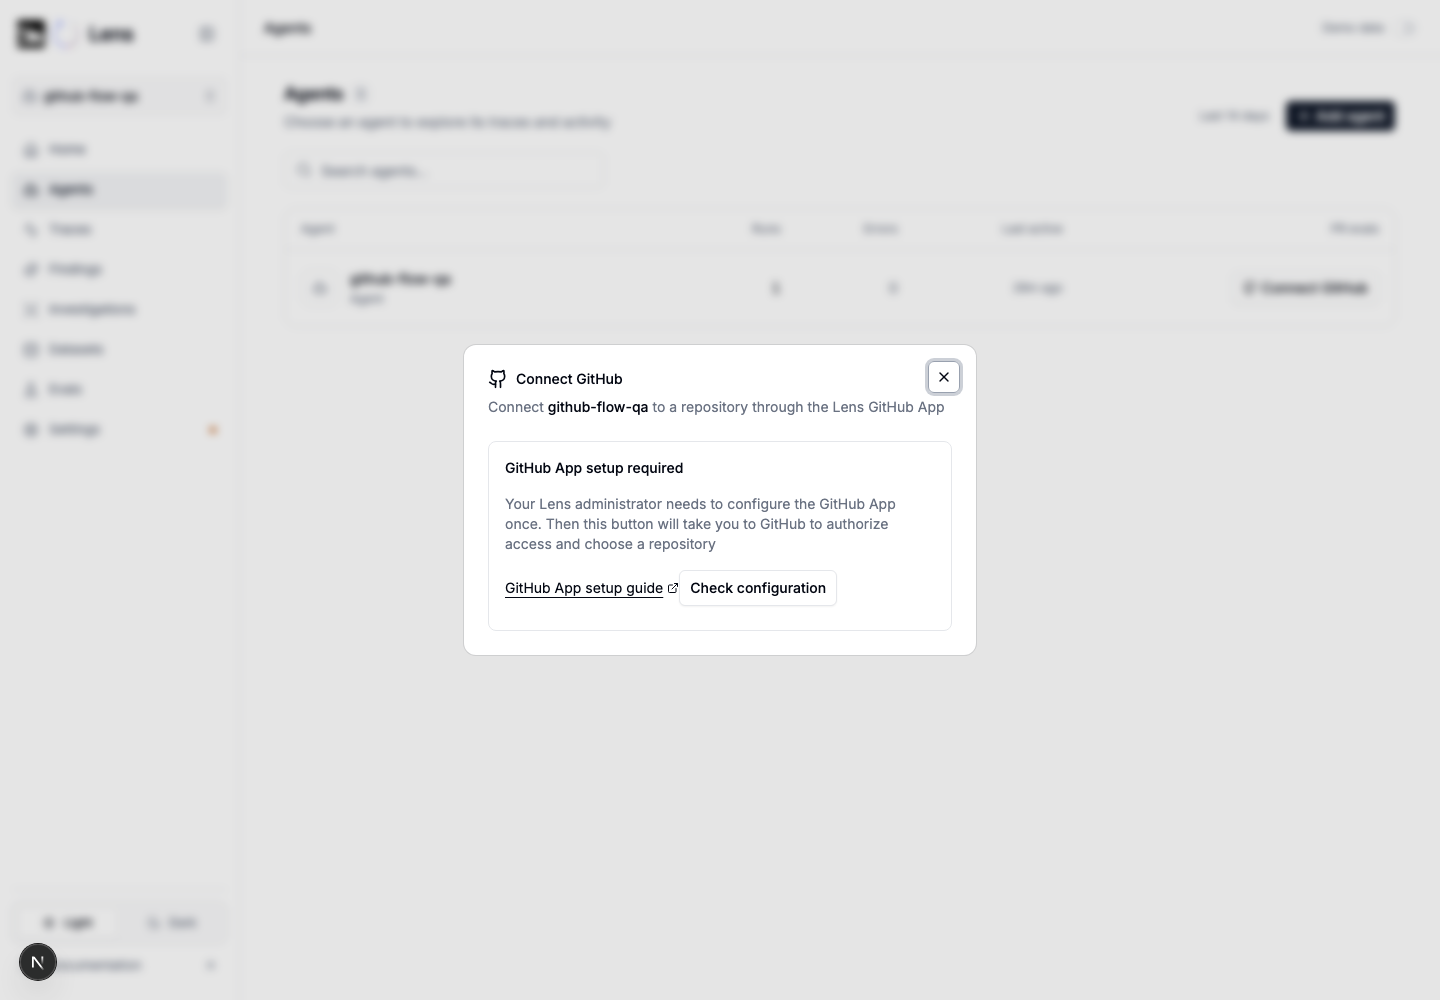
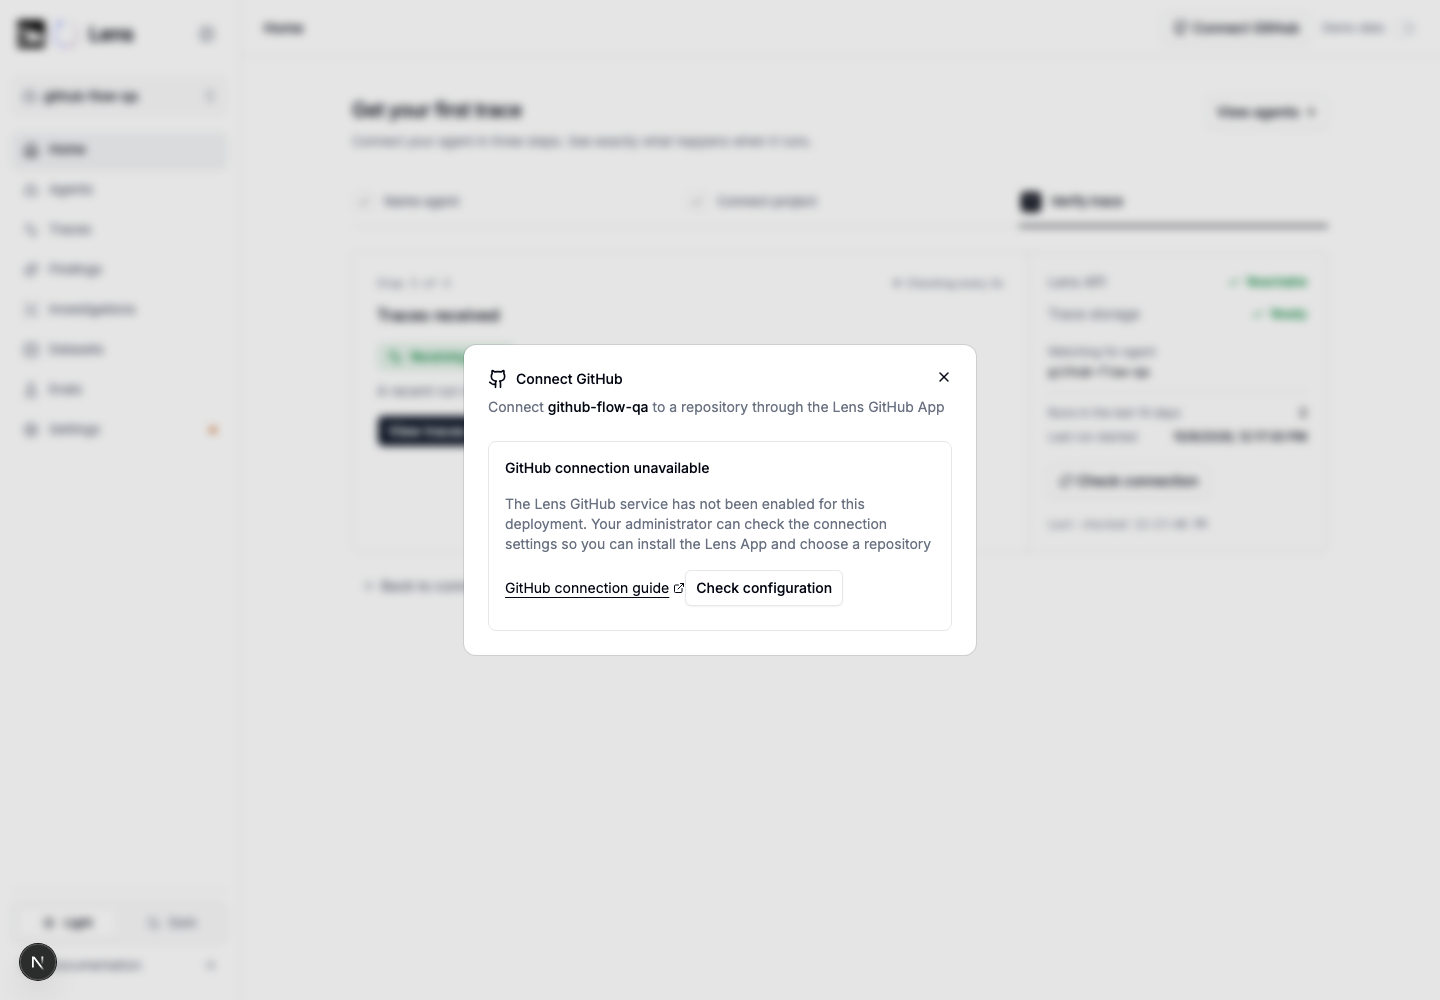
docs: show official GitHub App connection flow

diff --git a/assets/screenshots/github-evals/README.md b/assets/screenshots/github-evals/README.md
@@ -2,9 +2,13 @@
 
 Captured from the Lens UI on October 9, 2026 at a 1440 × 1000 desktop viewport and a 390 × 844 mobile viewport
 
-`after-github-app-unconfigured.png` shows the real local Lens backend with no GitHub App credentials configured. The frontend connected directly to that backend, without the response fixture, and correctly offered the administrator setup guide and configuration retry
+`after-official-service-consent-fixture.png` and `after-official-service-consent-mobile-fixture.png` show the connection service’s consent page. The HTML was generated by the actual Rust server during a passing HTTP integration test, exported unchanged, and rendered through a temporary local server. GitHub responses in that test came from a mock provider; `org/repo`, `agent`, and `https://customer.example` are fixture values. These images show the server-rendered repository confirmation page, not GitHub’s installation screen or a live official App installation. The screenshot server accepted only GET requests; no consent button was submitted during capture
 
-The current App flow appears in `after-github-repositories-fixture.png`, `after-github-connected-fixture.png` and `after-github-connected-mobile-fixture.png`. These capture the real rendered Lens UI with simulated responses for Lens’s GitHub connection API through a temporary loopback proxy. All other requests go to an actual local Lens server and an isolated ClickHouse database. No production configuration or code was added for the proxy
+`after-home-trace-github.png` and `after-home-trace-github-mobile.png` show the current Home setup confirming a newly received synthetic trace through the actual local OTLP API and isolated ClickHouse database. The success step offered Connect GitHub for `github-flow-qa`. Clicking it opened the connection dialog for that agent and preserved the Home setup progress in the URL
+
+`after-github-app-unconfigured.png` and `after-github-unavailable-mobile.png` show the real local Lens backend with no GitHub connection service configured. The frontend connected directly to that backend, without the response fixture, and correctly explained that the service is unavailable with a connection guide and configuration retry
+
+The repository picker and connected state inside Lens appear in `after-github-repositories-fixture.png`, `after-github-connected-fixture.png` and `after-github-connected-mobile-fixture.png`. These capture the real rendered Lens UI with simulated responses for Lens’s GitHub connection API through a temporary loopback proxy. All other requests go to an actual local Lens server and an isolated ClickHouse database. No production configuration or code was added for the proxy
 
 The repository picker selects a synthetic repository, then Connect repository submits its selected ID and removes the authorization parameter from the return URL. The connected screenshots show the resulting UI state. These screenshots do not establish real GitHub consent, token exchange, installation access or connection persistence in Lens
 
